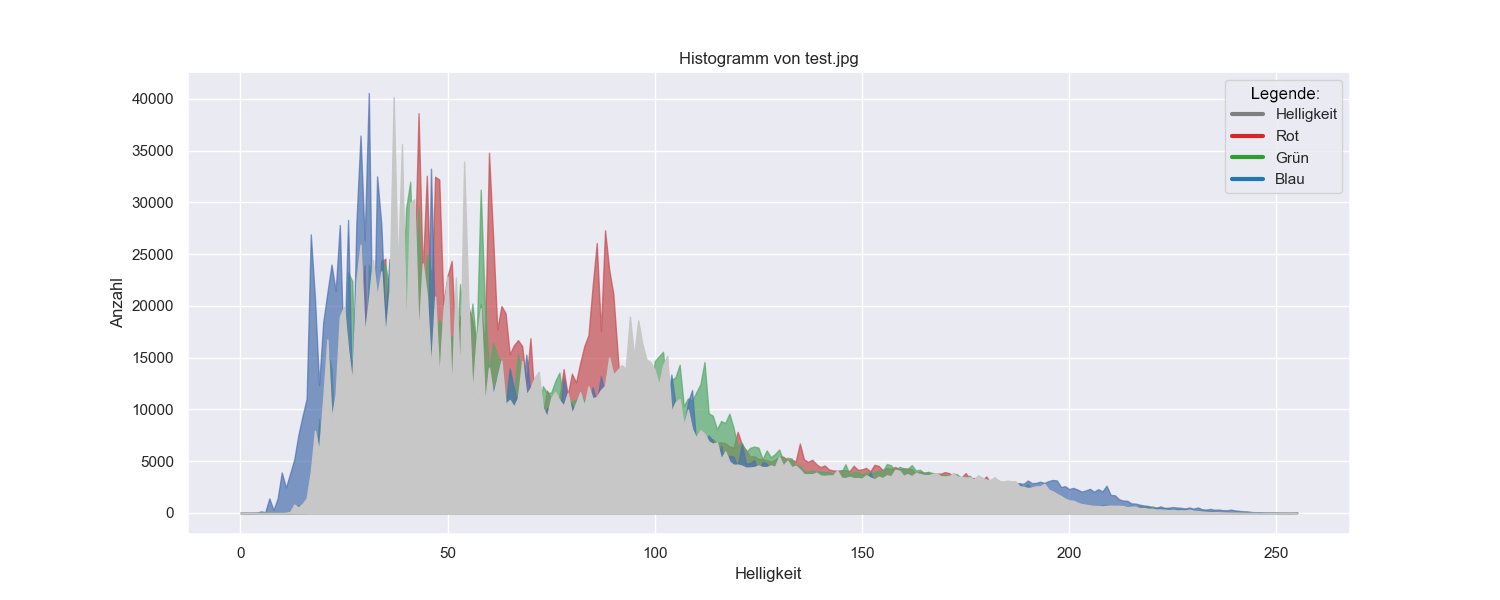
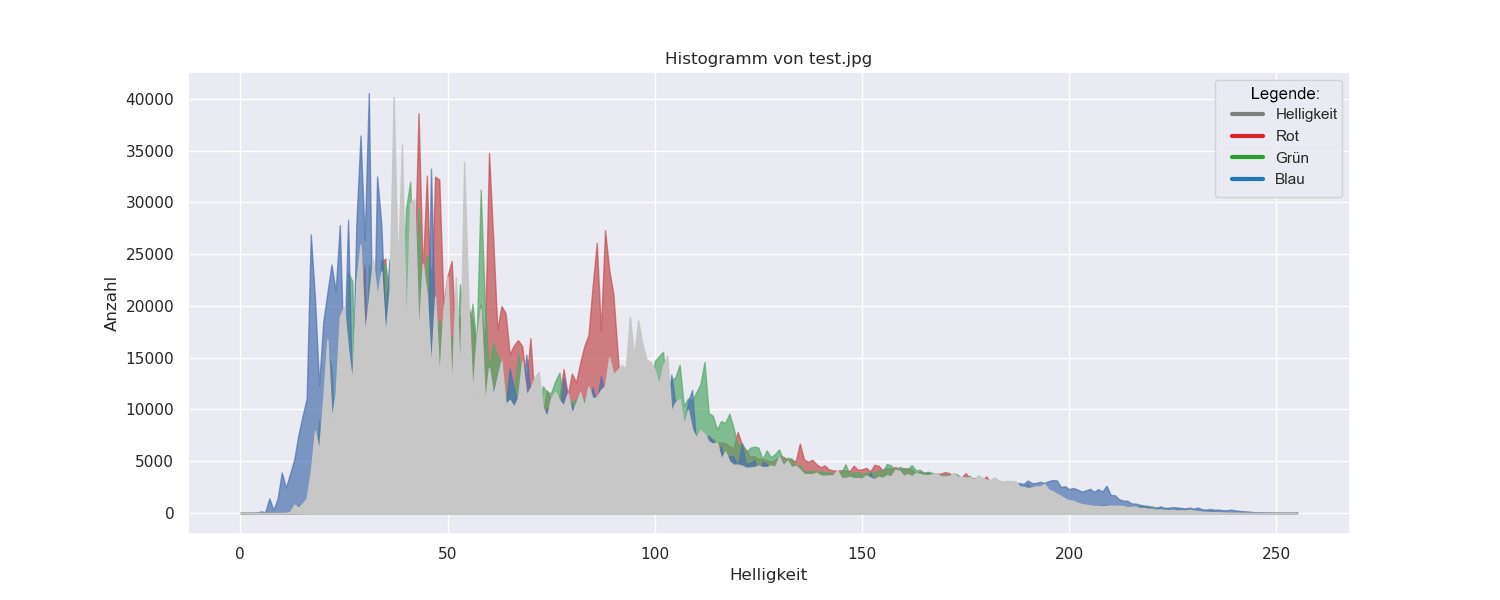
ka

diff --git a/medt/histrogramm/main.py b/medt/histrogramm/main.py
@@ -3,22 +3,34 @@ import numpy as np
 import matplotlib.pyplot as plt
 import seaborn as sns
 import pandas as pd
+import pathlib
+
 
 def oida():
     img = Image.open("plot.png")
     overlay = Image.open("legende.png")
 
-    img.paste(overlay, (1228,82))
+    img.paste(overlay, (1228, 82))
 
     img = img.save("plot.png")
+
 
 anz = np.zeros(256)
 anz_r = np.zeros(256)
 anz_g = np.zeros(256)
 anz_b = np.zeros(256)
-bright = np.arange(0,256, dtype=int)
+bright = np.arange(0, 256, dtype=int)
 
 file = "test.jpg"
+
+# if pathlib.Path(file).suffix != ('.jpg'):
+#     img_png = Image.open(file)
+#     img_png.load()
+#     background = Image.new("RGB", img_png.size, (255, 255, 255))
+#     background.paste(img_png, mask=img_png.split()[3])
+#     background.save('foo.jpg', 'JPEG', quality=80)
+# file = "foo.jpg"
+
 img = Image.open(file)
 width, height = img.size
 pixels = width * height
@@ -28,16 +40,17 @@ for x in range(width):
         anz_r[r] += 1
         anz_g[g] += 1
         anz_b[b] += 1
-        brightnes = sum([r,g,b])//3
+        brightnes = sum([r, g, b])//3
         anz[brightnes] += 1
 
-df = pd.DataFrame({'bright':bright, 'anz':anz, 'anz_r': anz_r, 'anz_g':anz_g, 'anz_b':anz_b}, columns=['bright','anz'])
+df = pd.DataFrame({'bright': bright, 'anz': anz, 'anz_r': anz_r,
+                  'anz_g': anz_g, 'anz_b': anz_b}, columns=['bright', 'anz'])
 data_preproc = pd.DataFrame({
-    'bright':bright,
-    'Helligkeit':anz,
-    'Rot':anz_r,
-    'Grün':anz_g,
-    'Blau':anz_b})
+    'bright': bright,
+    'Helligkeit': anz,
+    'Rot': anz_r,
+    'Grün': anz_g,
+    'Blau': anz_b})
 
 palette = {
     'Helligkeit': 'tab:gray',
@@ -47,13 +60,18 @@ palette = {
 }
 
 sns.set_style("darkgrid")
-sns.set(rc={"figure.figsize":(15, 6)})
-dig = sns.lineplot(x='bright', y='value',hue='variable', palette=palette,linewidth=3,alpha=0, data=pd.melt(data_preproc,['bright']))
-dig.set(xlabel ="Helligkeit", ylabel = "Anzahl", title ='Histogramm von '+ file)
-dig.fill_between(data_preproc.bright.values,data_preproc.Rot.values, color = 'r',alpha=0.7)
-dig.fill_between(data_preproc.bright.values,data_preproc.Grün.values, color = 'g',alpha=0.7)
-dig.fill_between(data_preproc.bright.values,data_preproc.Blau.values, color = 'b',alpha=0.7)
-dig.fill_between(data_preproc.bright.values,data_preproc.Helligkeit.values, color = '#c7c7c7')
-dig_fig =dig.get_figure()
+sns.set(rc={"figure.figsize": (15, 6)})
+dig = sns.lineplot(x='bright', y='value', hue='variable', palette=palette,
+                   linewidth=3, alpha=0, data=pd.melt(data_preproc, ['bright']))
+dig.set(xlabel="Helligkeit", ylabel="Anzahl", title='Histogramm von ' + file)
+dig.fill_between(data_preproc.bright.values,
+                 data_preproc.Rot.values, color='r', alpha=0.7)
+dig.fill_between(data_preproc.bright.values,
+                 data_preproc.Grün.values, color='g', alpha=0.7)
+dig.fill_between(data_preproc.bright.values,
+                 data_preproc.Blau.values, color='b', alpha=0.7)
+dig.fill_between(data_preproc.bright.values,
+                 data_preproc.Helligkeit.values, color='#c7c7c7')
+dig_fig = dig.get_figure()
 dig_fig.savefig('plot.png')
 oida()

diff --git a/sew/2kl/bank/src/ehsgjuposfg/ka.java b/sew/2kl/bank/src/ehsgjuposfg/ka.java
@@ -15,6 +15,10 @@ public class ka {
     private JLabel kontostand;
     private JPanel panel1;
     private JButton a6Button;
+    private JButton a9Button;
+    private JTextField input;
+
+    public boolean login = false;
 
     public ka() {
         pin.setEditable(false);
@@ -27,8 +31,9 @@ public class ka {
         loginButton.addActionListener(new ActionListener() {
             @Override
             public void actionPerformed(ActionEvent e) {
-
-            }
+                if () {
+                }
+           }
         });
         einzahlenButton.addActionListener(new ActionListener() {
             @Override
@@ -42,6 +47,18 @@ public class ka {
 
             }
         });
+        a9Button.addActionListener(new ActionListener() {
+            @Override
+            public void actionPerformed(ActionEvent e) {
+                pin.setText(pin.getText() + " 9");
+            }
+        });
+        a6Button.addActionListener(new ActionListener() {
+            @Override
+            public void actionPerformed(ActionEvent e) {
+                pin.setText(pin.getText() + " 6");
+            }
+        });
     }
 
     public static void main(String[] args) {
@@ -50,5 +67,9 @@ public class ka {
         frame.setDefaultCloseOperation(JFrame.EXIT_ON_CLOSE);
         frame.setSize(690, 690);
         frame.setVisible(true);
+    }
+
+    private void createUIComponents() {
+        // TODO: place custom component creation code here
     }
 }
